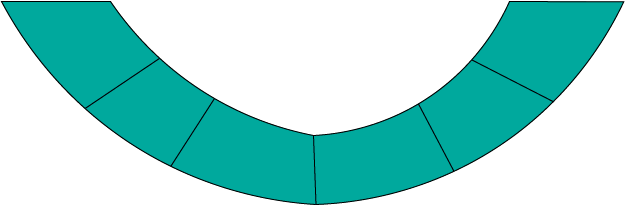
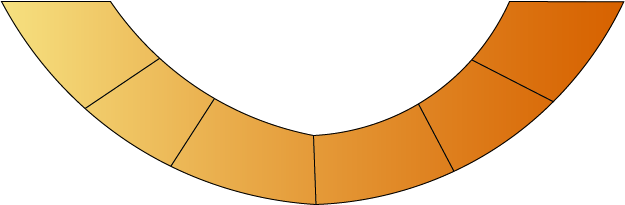
changed color themes through webpage

diff --git a/rules.css b/rules.css
@@ -1,3 +1,8 @@
+.custom-header {
+    background-color: #f4b71d;
+    color: White;
+}
+
 .GameTitle{
     font-family: "Anton";
     font-weight: bold;
@@ -6,12 +11,12 @@
 .Navigation .btn {
     font-size: 1rem;
     padding: 8px 16px;
-    background-color: lightblue;
+    background-color: white;;
     
 }
 .Navigation .btn:hover{
-    background-color: gray;
+    background-color: #d96a04;
 }
 .Navigation .UserName{
-    color: lightcoral;
+    color: black;
 }

diff --git a/game.css b/game.css
@@ -1,3 +1,8 @@
+.custom-header {
+    background-color: #f4b71d;
+    color: White;
+}
+
 .GameTitle{
     font-family: "Anton";
     font-weight: bold;
@@ -6,11 +11,11 @@
 .Navigation .btn {
     font-size: 1rem;
     padding: 8px 16px;
-    background-color: lightgray;
+    background-color: white;
     
 }
 .Navigation .btn:hover{
-    background-color: gray;
+    background-color: #d96a04;
 }
 .Navigation .UserName{
     color: black;

diff --git a/Game.html b/Game.html
@@ -12,7 +12,7 @@
 </head>
 <body class="vh-100 d-flex flex-column">
   <header class="custom-header p-3">
-    <div class="container-fluid d-flex justify-content-between align-items-center background">
+    <div class="container-fluid d-flex justify-content-between align-items-center ">
         <!-- CatchPhrase title on the left -->
         <h1 class="GameTitle">CatchPhrase</h1>
         

diff --git a/Rules.html b/Rules.html
@@ -31,7 +31,7 @@
       </header>
     <main>
         <div class="d-flex justify-content-center align-items-center">
-            <div class="w-50 p-4 bg-light border rounded text-center">
+            <div class="w-50 p-4 bg-light border rounded text-center mt-5">
             <h1 class="Rules">
                 Rules
             </h1>

diff --git a/home.css b/home.css
@@ -24,7 +24,7 @@
 
 .left {
     flex-direction: column;
-    background-color: black;
+    background-color: #f4b71d;
     text-align: left;
     font-weight: bold;
     color: white;
